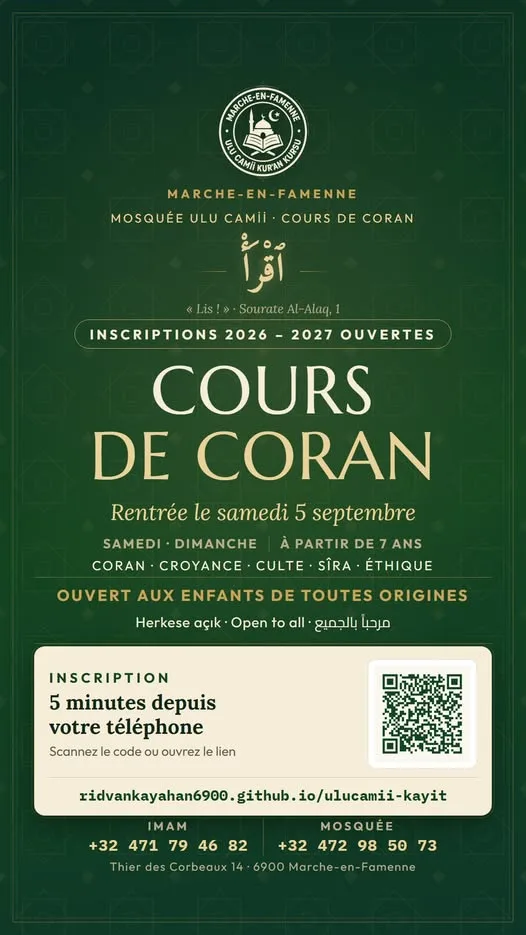
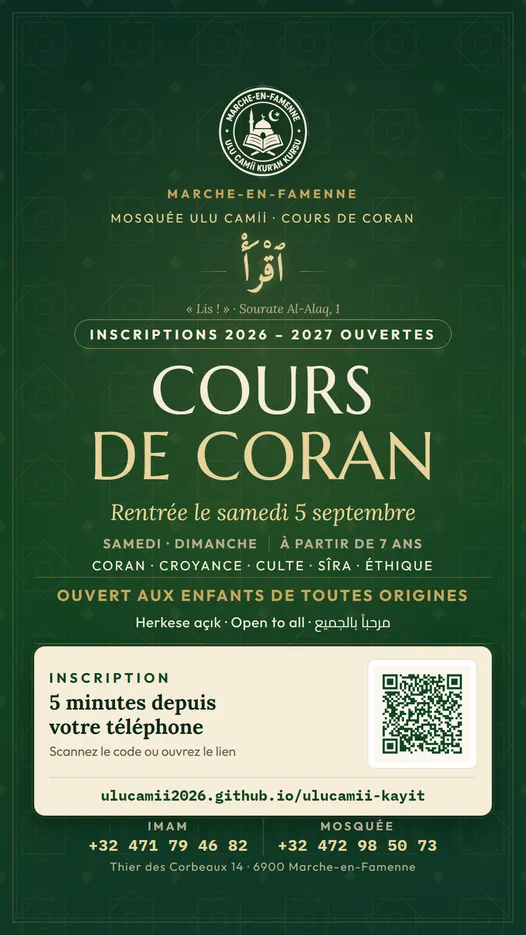
İkinci kontrol turu: mobilde duyuru şeridi yüksekliği en uzun mesaja göre ölçülüyor (örtüşme bitti), slayt noktaları mobilde sağ dikey ray, footer dokunma hedefleri, qrcode tip bildirimi (astro check 0 hata); kayıt afişleri dernek URL'si + yeni QR ile yeniden üretildi (site + OneDrive V3 + A3 V3, e-

Changed region(s): [[0.1521, 0.8374, 0.8517, 0.8684]]

diff --git a/src/styles/global.css b/src/styles/global.css
@@ -91,7 +91,7 @@
   /* markdown içindeki tablolar dar ekranda kendi içinde kaydırılır */
   .duz-yazi table { display: block; max-width: 100%; overflow-x: auto; -webkit-overflow-scrolling: touch; }
   /* dokunma hedefi: gövde içi küçük bağlantılar en az 32px yükseklik */
-  footer a, aside a, .dokun a { display: inline-block; padding-block: 0.2rem; }
+  footer a, aside a, .dokun a { display: inline-block; padding-block: 0.3rem; }
   h1, h2, h3, h4 { font-family: var(--font-serif); font-weight: 600; line-height: 1.15; letter-spacing: -0.01em; text-wrap: balance; }
   h1 { font-size: clamp(2rem, 1.2rem + 3.2vw, 3.6rem); }
   h2 { font-size: clamp(1.5rem, 1.1rem + 1.6vw, 2.25rem); }

diff --git a/src/types/qrcode.d.ts b/src/types/qrcode.d.ts
@@ -1,0 +1,4 @@
+declare module "qrcode" {
+  const qr: { toDataURL(text: string, opts?: Record<string, unknown>): Promise<string>; toString(text: string, opts?: Record<string, unknown>): Promise<string> };
+  export default qr;
+}
